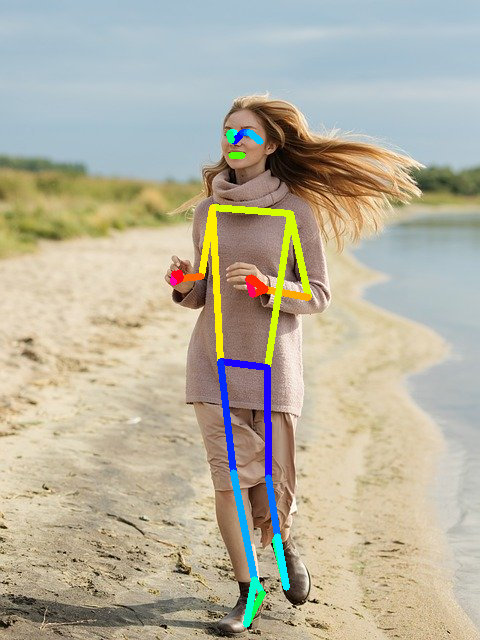
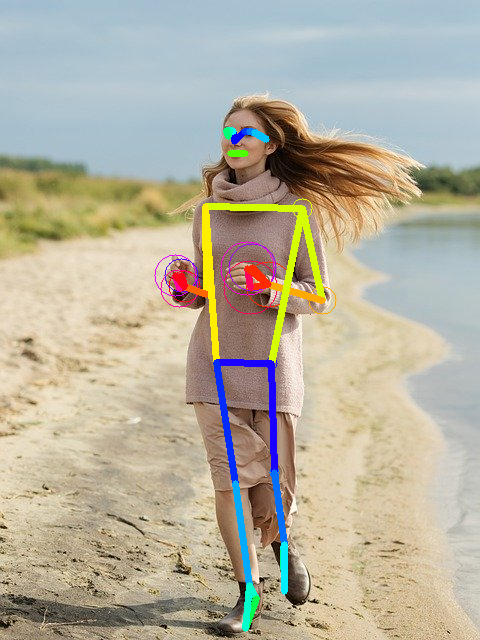
Display z value

Changed region(s): [[0.3125, 0.3125, 0.6875, 1.0], [0.4688, 0.1875, 0.5625, 0.25], [0.4688, 0.7188, 0.5, 0.75]]

diff --git a/pose_estimation/blazepose-fullbody/blazepose-fullbody.py b/pose_estimation/blazepose-fullbody/blazepose-fullbody.py
@@ -150,14 +150,39 @@ def line(input_img, landmarks, flags, point1, point2):
         if flag >= threshold and conf1 >= threshold and conf2 >= threshold:
             color = hsv_to_rgb(255 * point1 / but.BLAZEPOSE_KEYPOINT_CNT, 255, 255)
 
+            line_width = 5
+
             x1 = int(landmark[point1, 0])
             y1 = int(landmark[point1, 1])
             x2 = int(landmark[point2, 0])
             y2 = int(landmark[point2, 1])
-            cv2.line(input_img, (x1, y1), (x2, y2), color, 5)
+            cv2.line(input_img, (x1, y1), (x2, y2), color, line_width)
+
+def circle(input_img, landmarks, flags):
+    threshold = args.threshold
+
+    for i in range(len(flags)):
+        for point1 in range(11,33):
+          landmark, flag = landmarks[i], flags[i]
+          conf1 = landmark[point1, 3]
+
+          if flag >= threshold and conf1 >= threshold:
+               color = hsv_to_rgb(255 * point1 / but.BLAZEPOSE_KEYPOINT_CNT, 255, 255)
+
+               base_line_width = 5
+
+               line_width = landmark[point1, 2]
+               line_width = base_line_width - line_width/2 * 100
+               line_width = max(int(line_width),1)
+
+               x1 = int(landmark[point1, 0])
+               y1 = int(landmark[point1, 1])
+               cv2.circle(input_img, (x1, y1), line_width, color, thickness=1, lineType=cv2.LINE_8, shift=0)
 
 
 def display_result(img, landmarks, flags):
+    circle(img, landmarks, flags)
+
     line(img, landmarks, flags, but.BLAZEPOSE_KEYPOINT_NOSE,
          but.BLAZEPOSE_KEYPOINT_EYE_LEFT_INNER)
     line(img, landmarks, flags, but.BLAZEPOSE_KEYPOINT_EYE_LEFT_INNER,
